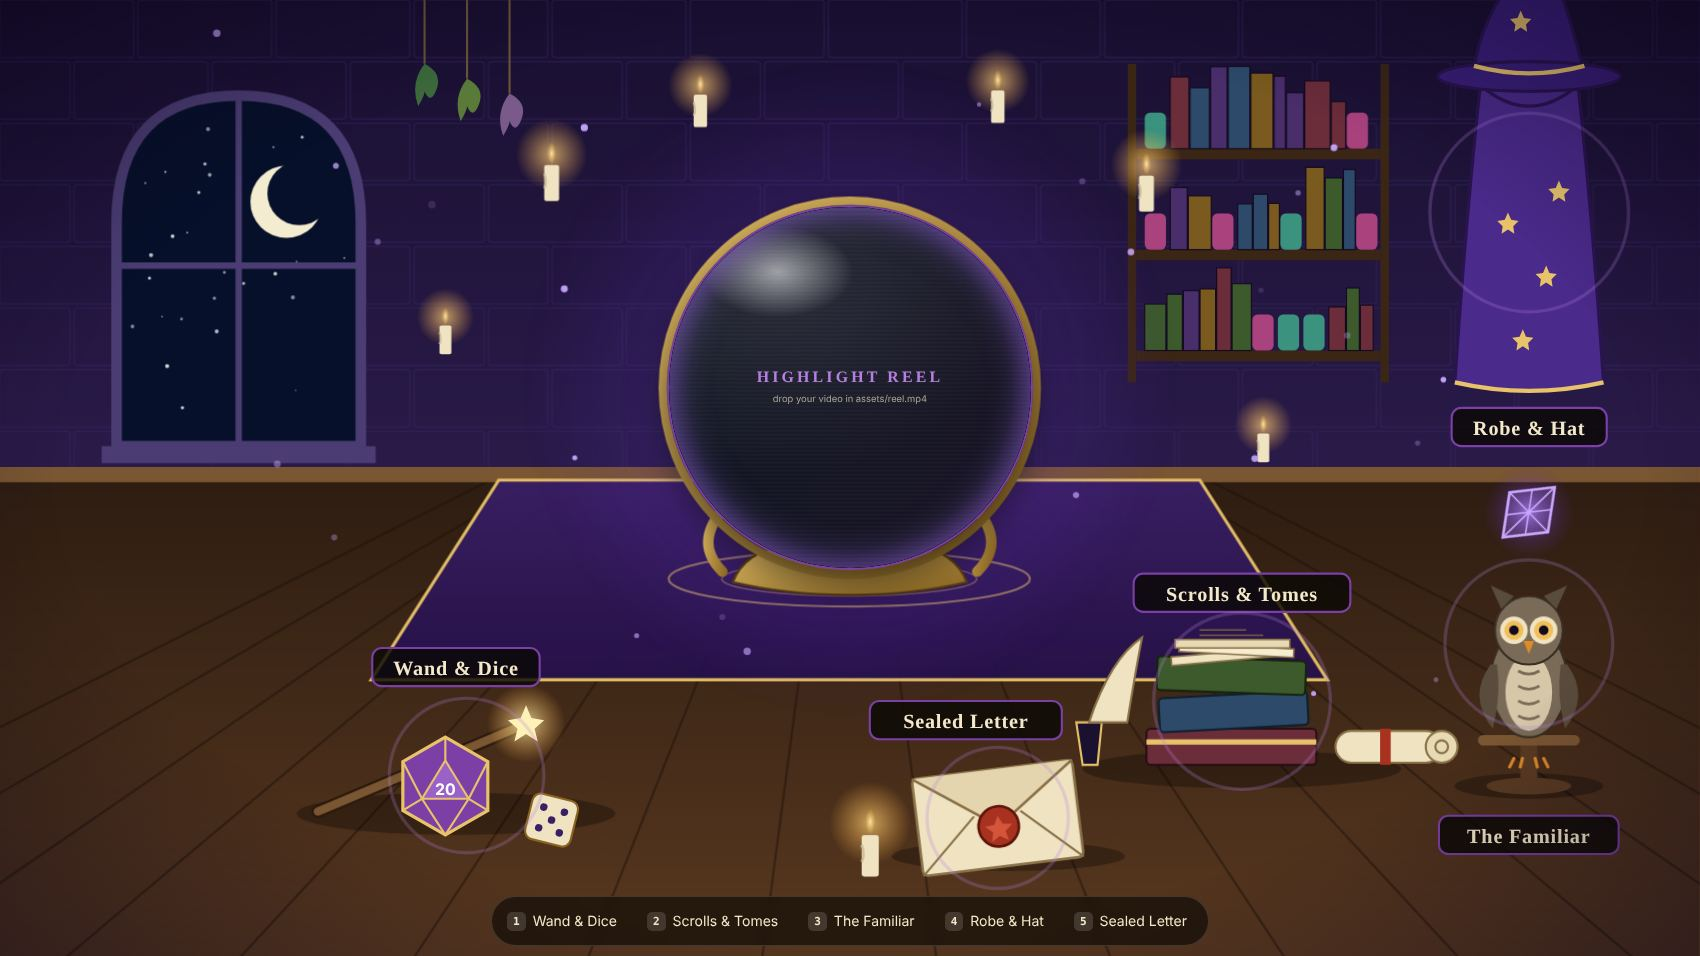
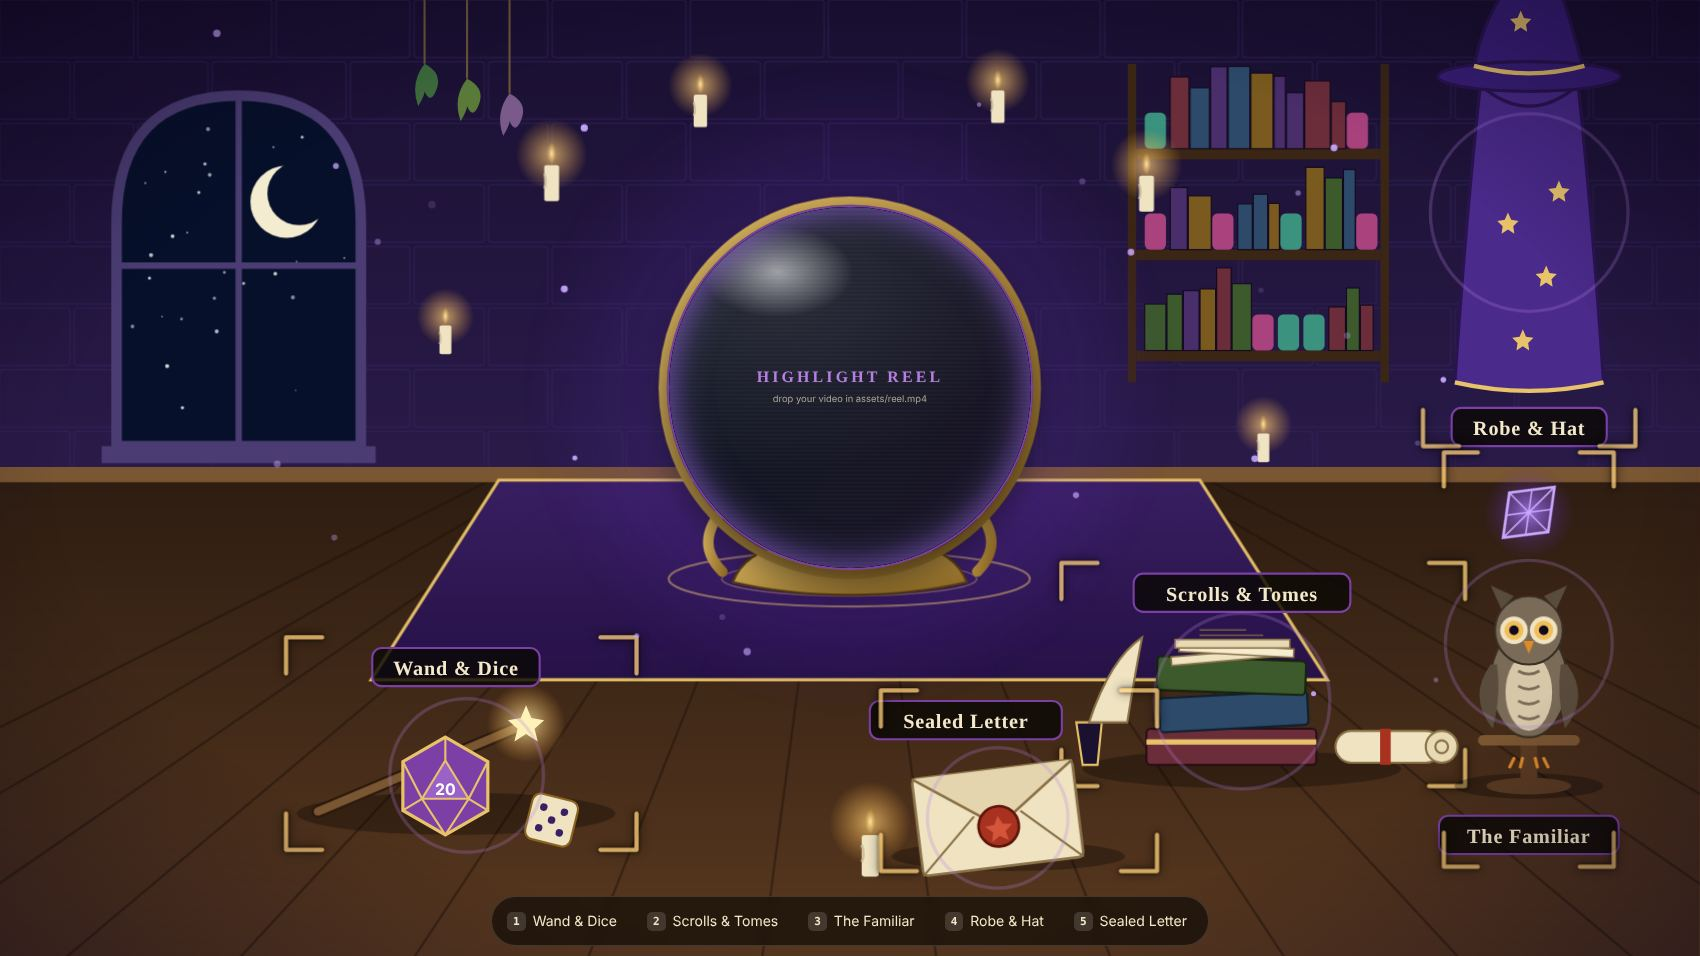
Add files via upload

diff --git a/concepts/scenes/workshop.js b/concepts/scenes/workshop.js
@@ -1,0 +1,96 @@
+/* Concept E - The Workshop (hand-drawn layered art).
+   Layers: art2/plate.jpg (empty room) + one transparent cut-out per object (raven, construct, books, kit, disc).
+   All art coordinates below are in source-image pixels (1024 x 572); K converts them to scene units.
+   To swap art: replace the PNGs in concepts/art2/ (same canvas position) and adjust the numbers here. */
+PF.init({
+  theme:'workshop',
+  reel:{x:575,y:295,w:448,h:283,shape:'rect'},
+  icons:{games:'art2/icon-games.png',docs:'art2/icon-docs.png',art:'art2/icon-art.png',about:'art2/icon-about.png',contact:'art2/icon-contact.png'},
+  flavor:{
+    games:{name:'Games',sub:'Shipped titles, student games and jams'},
+    docs:{name:'Documents',sub:'Fan GDDs and systems design logs'},
+    art:{name:'3D Art',sub:'Models you can rotate'},
+    about:{name:'About',sub:'Character sheet, experience, education'},
+    contact:{name:'Contact',sub:'Email, CV and message form'}
+  },
+  draw:function(svg,P){
+    var el=P.el,K=900/572,OX=(1600-1024*K)/2,T='translate('+OX+',0) scale('+K+')';
+    var CUT={raven:{x:82,y:123,w:198,h:132},construct:{x:774,y:50,w:203,h:222},books:{x:47,y:335,w:237,h:195},about:{x:334,y:359,w:376,h:192},disc:{x:705,y:280,w:254,h:257}};
+    P.defs(
+      '<radialGradient id="shd"><stop offset="0" stop-color="#050302" stop-opacity=".6"/><stop offset=".6" stop-color="#050302" stop-opacity=".25"/><stop offset="1" stop-color="#050302" stop-opacity="0"/></radialGradient>'+
+      '<radialGradient id="cdl"><stop offset="0" stop-color="#ffcf70" stop-opacity=".5"/><stop offset=".5" stop-color="#ff9a3c" stop-opacity=".16"/><stop offset="1" stop-color="#ff9a3c" stop-opacity="0"/></radialGradient>'+
+      '<radialGradient id="vig" cx=".5" cy=".5" r=".78"><stop offset=".62" stop-color="#0a0604" stop-opacity="0"/><stop offset="1" stop-color="#0a0604" stop-opacity=".5"/></radialGradient>'+
+      '<clipPath id="glass"><path d="M103 203 L103 130 C103 92 130 66 162 66 C194 66 222 92 222 130 L222 203Z"/></clipPath>'
+    );
+    function grp(parent,attrs){return el('g',attrs||{},parent)}
+    function img(parent,name,box){var i=el('image',{x:box.x,y:box.y,width:box.w,height:box.h,'pointer-events':'none'},parent);i.setAttribute('href','art2/'+name+'.png');return i}
+
+    /* 1 - empty room */
+    var bg=el('image',{x:OX,y:0,width:1024*K,height:900,preserveAspectRatio:'none'},svg);
+    bg.setAttribute('href','art2/plate.jpg');
+
+    /* 2 - soft contact shadows + candle light (under the objects) */
+    var world=grp(svg,{transform:T,'pointer-events':'none'});
+    [[165,520,128,14],[520,538,190,13],[832,530,108,12],[882,262,72,7],[170,250,70,6]].forEach(function(s){
+      el('ellipse',{cx:s[0],cy:s[1],rx:s[2],ry:s[3],fill:'url(#shd)'},world)});
+    el('circle',{class:'pulse',cx:968,cy:492,r:96,fill:'url(#cdl)'},world);
+
+    /* 3 - the window: drifting clouds and a few stars, clipped to the glass */
+    var sky=grp(world,{'clip-path':'url(#glass)'});
+    var cl=grp(sky,{class:'drift'});
+    [[130,92,36,7],[188,84,30,5.5],[150,108,24,4.5]].forEach(function(c){el('ellipse',{cx:c[0],cy:c[1],rx:c[2],ry:c[3],fill:'#b9cde2',opacity:.38},cl)});
+    [[125,76],[158,72],[190,80],[142,86],[207,92]].forEach(function(s,i){
+      var t=el('circle',{class:'twinkle',cx:s[0],cy:s[1],r:1.1,fill:'#fff3d0'},sky);t.style.animationDelay=(-i*.7)+'s'});
+
+    /* 4 - cut-out objects as clickable layers */
+    function tag(parent,text,cx,cy,stringTop){
+      var w=text.length*8.4+24,g=grp(parent,{class:'wtag'});
+      el('path',{d:'M'+(cx-13)+' '+(cy-14)+' L'+cx+' '+stringTop+' L'+(cx+13)+' '+(cy-14)},g);
+      el('circle',{cx:cx,cy:stringTop,r:2.2},g);
+      el('rect',{x:cx-w/2,y:cy-14,width:w,height:28,rx:3},g);
+      var t=el('text',{x:cx,y:cy+1},g);t.textContent=text;return g}
+    function object(key,name,fx,hit,anim,label){
+      var g=el('g',{class:'cut'},svg),w=grp(g,{transform:T}),lift=grp(w,{class:'lift'}),idle=grp(lift,anim?{class:anim}:{});
+      var im=img(idle,name,CUT[name]);
+      var tg=grp(w,{});tag(tg,label[0],label[1],label[2],label[3]);
+      /* hit box + brackets are in scene units */
+      var b=[OX+hit[0]*K,hit[1]*K,(hit[2]-hit[0])*K,(hit[3]-hit[1])*K];
+      P.hot(key,g,{box:b,frame:b});
+      return {g:g,idle:idle,im:im};
+    }
+    object('contact','raven',0,[62,32,266,314],'idle-sway',['Contact',163,292,262]);
+    object('art','construct',0,[772,46,990,274],'idle-breathe',['3D Art',962,292,266]);
+    object('docs','books',0,[38,330,292,566],null,['Documents',173,545,525]);
+    object('about','about',0,[338,392,698,568],null,['About',519,550,534]);
+    var disc=object('games','disc',0,[702,282,962,566],null,['Games',833,549,528]);
+    /* round brackets for the round object: four arcs instead of square corners */
+    (function(){
+      var old=disc.g.querySelector('.hbr');if(old)old.remove();
+      var br=el('g',{class:'hbr','pointer-events':'none'},disc.g);br.style.setProperty('--dl','1.9s');
+      var cx=OX+832*K,cy=408*K,r=136*K;
+      [45,135,225,315].forEach(function(a){
+        var p=function(d){var t=(a+d)*Math.PI/180;return (cx+r*Math.cos(t)).toFixed(1)+' '+(cy+r*Math.sin(t)).toFixed(1)};
+        el('path',{d:'M'+p(-17)+' A'+r.toFixed(1)+' '+r.toFixed(1)+' 0 0 1 '+p(17)},br)});
+    })();
+
+    /* the disc turns slowly; faster while it is the focused object */
+    (function(){
+      var c=CUT.disc,cx=c.x+c.w/2,cy=c.y+c.h/2,a=0,sp=3,last=performance.now(),still=matchMedia('(prefers-reduced-motion: reduce)').matches;
+      if(still)return;
+      (function tick(t){
+        var dt=Math.min(.05,(t-last)/1000);last=t;
+        var tgt=disc.g.classList.contains('on')||disc.g.matches(':hover')?46:3;
+        sp+=(tgt-sp)*Math.min(1,dt*4);a=(a+sp*dt)%360;
+        disc.idle.setAttribute('transform','rotate('+a.toFixed(2)+' '+cx+' '+cy+')');
+        requestAnimationFrame(tick)})(last);
+    })();
+
+    /* 5 - candle flame (the candle is part of the empty room, so the flame sits on top) */
+    var fl=grp(svg,{transform:T,'pointer-events':'none'}),f1=grp(fl,{transform:'translate(968,486)'}),f2=grp(f1,{class:'wflame'});
+    el('path',{d:'M0 -27 C8 -15 10 -6 0 3 C-10 -6 -8 -15 0 -27Z',fill:'#ffc04a'},f2);
+    el('path',{d:'M0 -15 C4 -10 5 -5 0 0 C-5 -5 -4 -10 0 -15Z',fill:'#fff1bd'},f2);
+
+    P.motes(grp(svg,{'pointer-events':'none'}),16,{x0:80,x1:1520,y0:180,y1:820,color:'#ffe3a8',r:1.1,rv:1.2,dy:46,dx:22});
+    el('rect',{x:0,y:0,width:1600,height:900,fill:'url(#vig)','pointer-events':'none'},svg);
+  }
+});

diff --git a/concepts/core/core.js b/concepts/core/core.js
@@ -65,17 +65,25 @@
         g.setAttribute('class',(g.getAttribute('class')||'')+' hot');
         g.setAttribute('tabindex','0');g.setAttribute('role','button');g.setAttribute('aria-label',f.name+' - '+f.sub);
         if(o.box)svgEl('rect',{x:o.box[0],y:o.box[1],width:o.box[2],height:o.box[3],fill:'transparent'},g);
+        if(o.box){
+          var fr=o.frame||o.box,bx=fr[0],by=fr[1],bw=fr[2],bh=fr[3],L=Math.max(14,Math.min(34,Math.min(bw,bh)*.2)),br=svgEl('g',{class:'hbr','pointer-events':'none'},g);
+          br.style.setProperty('--dl',(1.2+Object.keys(hots).length*.35).toFixed(2)+'s');
+          [[bx,by,1,1],[bx+bw,by,-1,1],[bx,by+bh,1,-1],[bx+bw,by+bh,-1,-1]].forEach(function(c){
+            svgEl('path',{d:'M'+c[0]+' '+(c[1]+c[3]*L)+' V'+c[1]+' H'+(c[0]+c[2]*L)},br)});
+        }
         if(o.ping)svgEl('circle',{class:'ping',cx:o.ping[0],cy:o.ping[1],r:o.ping[2]||60},g);
         hots[key]=g;
         g.addEventListener('click',function(e){e.stopPropagation();go(key)});
         g.addEventListener('keydown',function(e){if(e.key==='Enter'||e.key===' '){e.preventDefault();go(key)}});
-        g.addEventListener('pointerenter',function(e){showTip(key,e.clientX,e.clientY)});
+        g.addEventListener('pointerenter',function(e){spotOn(key);showTip(key,e.clientX,e.clientY)});
         g.addEventListener('pointermove',function(e){moveTip(e.clientX,e.clientY)});
-        g.addEventListener('pointerleave',hideTip);
-        g.addEventListener('focus',function(){var r=g.getBoundingClientRect();showTip(key,r.left+r.width/2,r.top)});
-        g.addEventListener('blur',hideTip);
+        g.addEventListener('pointerleave',function(){spotOff();hideTip()});
+        g.addEventListener('focus',function(){spotOn(key);var r=g.getBoundingClientRect();showTip(key,r.left+r.width/2,r.top)});
+        g.addEventListener('blur',function(){spotOff();hideTip()});
         return g}
     };
+    function spotOn(k){stage.classList.add('spot');Object.keys(hots).forEach(function(j){hots[j].classList.toggle('on',j===k)})}
+    function spotOff(){stage.classList.remove('spot');Object.keys(hots).forEach(function(j){hots[j].classList.remove('on')})}
     function showTip(key,x,y){var f=F[key];tip.innerHTML='<b>'+esc(f.name)+'</b>'+esc(f.sub);tip.classList.add('on');moveTip(x,y)}
     function moveTip(x,y){tip.style.left=x+'px';tip.style.top=y+'px'}
     function hideTip(){tip.classList.remove('on')}
@@ -83,7 +91,7 @@
     cfg.draw(svg,P);
 
     /* highlight reel */
-    var R=cfg.reel,reel=h('div','pf-reel'+(R.shape==='circle'?' circle':R.shape==='oval'?' oval':''));
+    var R=cfg.reel,reel=h('div','pf-reel'+(R.shape==='circle'?' circle':R.shape==='oval'?' oval':R.shape==='rect'?' rect':''));
     reel.style.left=(R.x/16)+'%';reel.style.top=(R.y/9)+'%';reel.style.width=(R.w/16)+'%';reel.style.height=(R.h/9)+'%';
     if(R.tf){reel.style.transform=R.tf}
     if(R.r){reel.style.borderRadius=R.r}
@@ -106,13 +114,13 @@
     KEYS.forEach(function(k,i){
       var b=h('button','','<kbd>'+(i+1)+'</kbd>'+(cfg.icons&&cfg.icons[k]?'<img class="pf-mi" src="'+cfg.icons[k]+'" alt="">':'')+esc(F[k].name));b.type='button';
       b.onclick=function(){go(k)};
-      b.addEventListener('mouseenter',function(){if(hots[k])hots[k].classList.add('peek')});
-      b.addEventListener('mouseleave',function(){if(hots[k])hots[k].classList.remove('peek')});
-      b.addEventListener('focus',function(){if(hots[k])hots[k].classList.add('peek')});
-      b.addEventListener('blur',function(){if(hots[k])hots[k].classList.remove('peek')});
+      b.addEventListener('mouseenter',function(){spotOn(k)});
+      b.addEventListener('mouseleave',spotOff);
+      b.addEventListener('focus',function(){spotOn(k)});
+      b.addEventListener('blur',spotOff);
       menu.appendChild(b)});
     stage.appendChild(menu);
-    var hint=h('div','pf-hint','Click anything that glows &middot; or press 1-5');
+    var hint=h('div','pf-hint','Click any framed object &middot; or press 1-5');
     stage.appendChild(hint);
     setTimeout(function(){hint.classList.add('gone')},9000);
 

diff --git a/concepts/core/core.css b/concepts/core/core.css
@@ -237,3 +237,45 @@ body[data-theme=crossroads] .pf-btn.ghost,body[data-theme=dungeon] .pf-btn.ghost
   .pf-reel.oval{border-radius:10px!important}
   .pf-reel.oval:after{border-radius:10px}
 }
+
+/* ---------- affordance: brackets + spotlight ---------- */
+.hbr path{fill:none;stroke:#ffd27a;stroke-width:4;stroke-linecap:round;stroke-linejoin:round;opacity:.75;transition:opacity .2s,stroke-width .2s;filter:drop-shadow(0 0 2px rgba(0,0,0,.95)) drop-shadow(0 0 5px rgba(0,0,0,.6));animation:brk 3.2s ease-in-out infinite var(--dl,0s)}
+@keyframes brk{0%,100%{opacity:.55}50%{opacity:1}}
+.hot:hover .hbr path,.hot:focus-visible .hbr path,.hot.on .hbr path,.hot.peek .hbr path{opacity:1;stroke-width:4.5;animation:none}
+.hot.on{filter:brightness(1.22) drop-shadow(0 0 14px var(--acc-hi))}
+.hot.flat.on{filter:none}
+.hot.on .hot-art{transform:scale(1.045)}
+.hot.on .hglow,.hot.on .ptag{opacity:1}
+.pf-stage.spot .hot:not(.on){filter:brightness(.55) saturate(.7)}
+.pf-stage.spot .hot.flat:not(.on){filter:none}
+.pf-stage.spot .hot:not(.on) .hbr path{opacity:.35;animation:none}
+@media (max-width:760px){.hbr{display:none}}
+
+/* ---------- Workshop concept (hand-drawn layered art) ---------- */
+body[data-theme=workshop]{--edge:#150e09;--pbg:#ead9b0;--ink:#2e2015;--ink2:#6a5239;--acc:#2f7a62;--acc-hi:#f0c060;--line:rgba(80,55,30,.42);--card:rgba(255,255,255,.4);--head:Georgia,"Times New Roman",serif;--pshadow:rgba(10,5,0,.72);--btn-ink:#fff;--topbar:rgba(21,14,9,.78)}
+.pf-reel.rect{box-shadow:0 0 0 1px #0b0d12}
+.pf-reel.rect:after{content:"";position:absolute;inset:0;pointer-events:none;box-shadow:inset 0 0 22px 7px rgba(6,8,12,.72)}
+.pf-reel.rect .pf-snd{z-index:3}
+.hot.cut .lift{transition:transform .28s cubic-bezier(.2,.8,.3,1)}
+.hot.cut:hover .lift,.hot.cut:focus-visible .lift,.hot.cut.on .lift{transform:translateY(-4px)}
+.hot.cut:hover,.hot.cut:focus-visible,.hot.cut.on,.hot.cut.peek{filter:brightness(1.1) saturate(1.08) drop-shadow(2px 0 0 #ffd27a) drop-shadow(-2px 0 0 #ffd27a) drop-shadow(0 2px 0 #ffd27a) drop-shadow(0 -2px 0 #ffd27a) drop-shadow(0 0 9px rgba(255,210,122,.6))}
+.pf-stage.spot .hot.cut:not(.on){filter:brightness(.8) saturate(.82)}
+.hot.cut .wtag rect{fill:#e6d4a2;stroke:#2a1b12;stroke-width:1.6;transition:fill .2s}
+.hot.cut .wtag path{fill:none;stroke:#2a1b12;stroke-width:1.3;stroke-linecap:round}
+.hot.cut .wtag circle{fill:#2a1b12}
+.hot.cut .wtag text{fill:#2a1b12;font:700 15px Kalam,"Segoe Print","Bradley Hand","Comic Sans MS",cursive;text-anchor:middle;dominant-baseline:central;pointer-events:none}
+.hot.cut:hover .wtag rect,.hot.cut:focus-visible .wtag rect,.hot.cut.on .wtag rect,.hot.cut.peek .wtag rect{fill:#ffd27a}
+.idle-sway{animation:sway 6s ease-in-out infinite alternate;transform-box:fill-box;transform-origin:50% 100%}
+@keyframes sway{from{transform:rotate(-.9deg)}to{transform:rotate(.9deg)}}
+.idle-breathe{animation:breathe2 5s ease-in-out infinite;transform-box:fill-box;transform-origin:50% 100%}
+@keyframes breathe2{50%{transform:scale(1.006,1.016)}}
+.drift{animation:drift 70s linear infinite alternate}
+@keyframes drift{from{transform:translateX(-26px)}to{transform:translateX(30px)}}
+.wflame{animation:wflame 1.6s ease-in-out infinite alternate;transform-box:fill-box;transform-origin:50% 100%}
+@keyframes wflame{0%{transform:scale(1,1) skewX(0)}35%{transform:scale(.94,1.08) skewX(2deg)}70%{transform:scale(1.04,.94) skewX(-2deg)}100%{transform:scale(.97,1.05) skewX(1deg)}}
+@media (prefers-reduced-motion:reduce){.idle-sway,.idle-breathe,.drift,.wflame,.twinkle,.mote{animation:none}}
+@media (min-width:761px){
+  body[data-theme=workshop] .pf-menu{bottom:auto;top:12px}
+  body[data-theme=workshop] .pf-hint{top:64px}
+}
+@media (max-width:760px){.wtag{display:none}}

diff --git a/concepts/index.html b/concepts/index.html
@@ -4,7 +4,7 @@
 <meta charset="utf-8">
 <meta name="viewport" content="width=device-width, initial-scale=1">
 <title>Landing concepts - Yoav Stadler</title>
-<meta name="description" content="Four RPG landing page concepts for Yoav Stadler's portfolio.">
+<meta name="description" content="Six RPG landing page concepts for Yoav Stadler's portfolio.">
 <style>
 :root{--bg:#08130f;--panel:#11231b;--ink:#efe6cf;--ink2:#b9ad8c;--amber:#C8922A;--amber-hi:#f0bf5a;--line:rgba(200,146,42,.35)}
 *{box-sizing:border-box}
@@ -35,11 +35,18 @@ footer{text-align:center;color:var(--ink2);padding:10px 20px 40px}
 <body>
 <header>
   <h1>Landing concepts</h1>
-  <p class="sub">Five ways to open the portfolio. All of them share the same content, the same looping highlight-reel slot in the middle, and sections that open in place. Click through each one and open a few objects.</p>
+  <p class="sub">Six ways to open the portfolio. All of them share the same content, the same looping highlight-reel slot in the middle, and sections that open in place. Click through each one and open a few objects.</p>
 </header>
 <div class="wrap">
   <div class="grid">
     <article class="card" style="border-color:var(--amber-hi)">
+      <a class="th" href="workshop.html"><img src="thumbs/workshop.jpg" alt="The Workshop concept"></a>
+      <div class="b"><small>Concept E - hand-drawn, newest</small><h2>The Workshop</h2>
+        <p>A wooden wizard's workshop drawn by hand. The reel plays inside a runestone frame. Disc = games, books = documents, construct = 3D art, hat and satchel = about, raven in the window = contact.</p>
+        <ul><li>Each object is its own layer: gold outline, lift and label on hover</li><li>Animated: turning disc, flickering candle, drifting clouds, swaying raven</li><li>Art is easy to swap: replace the PNGs in <code>art2/</code></li></ul>
+        <a class="btn" href="workshop.html">Open</a></div>
+    </article>
+    <article class="card">
       <a class="th" href="wizard-art.html"><img src="thumbs/wizard-art.jpg" alt="The Wizard's Table with your painted art"></a>
       <div class="b"><small>Concept B - with your painted art</small><h2>The Wizard's Table (painted)</h2>
         <p>The wizard's table built from the scene and object art you generated. The reel plays inside the oval mirror frame, the objects glow on hover, and the cut-out art shows up as icons in the menu and panels.</p>

diff --git a/concepts/scenes/wizard-art.js b/concepts/scenes/wizard-art.js
@@ -34,18 +34,18 @@ PF.init({
     glow(1612,205,'pulse',{r:95,fill:'url(#flameg)',opacity:.7});
 
     /* hotspot helper: ellipse glow + hit box + hover tag + sparkle */
-    function spot(key,cx,cy,rx,ry,tagAt,spk){
+    function spot(key,cx,cy,rx,ry,frame,spk){
       var g=el('g',{class:'flat'},svg);
       el('ellipse',{class:'hglow',cx:cx*K,cy:cy*K,rx:rx*K,ry:ry*K,fill:'url(#hg)'},g);
       P.sparkle(g,spk[0]*K,spk[1]*K,15);
-      P.hot(key,g,{box:[(cx-rx)*K,(cy-ry)*K,rx*2*K,ry*2*K]});
+      P.hot(key,g,{box:[(cx-rx)*K,(cy-ry)*K,rx*2*K,ry*2*K],frame:[frame[0]*K,frame[1]*K,(frame[2]-frame[0])*K,(frame[3]-frame[1])*K]});
       return g;
     }
-    spot('games',335,725,325,125,[335,590],[505,765]);
-    spot('docs',1405,650,215,108,[1405,535],[1392,592]);
-    spot('art',290,345,125,190,[290,135],[305,250]);
-    spot('about',1330,290,175,275,[1330,585],[1330,255]);
-    spot('contact',1310,792,150,58,[1310,712],[1395,785]);
+    spot('games',335,725,325,125,[30,580,645,865],[505,765]);
+    spot('docs',1405,650,215,108,[1190,540,1625,770],[1392,592]);
+    spot('art',290,345,125,190,[185,190,415,530],[305,250]);
+    spot('about',1330,290,175,275,[1165,70,1490,565],[1330,255]);
+    spot('contact',1310,792,150,58,[1170,735,1455,855],[1395,785]);
 
     P.motes(svg,22,{x0:150,x1:1450,y0:150,y1:850,color:'#ffcf70',dy:60,dx:20,r:1.5,rv:1.4});
     el('rect',{x:0,y:0,width:1600,height:900,fill:'url(#vig)','pointer-events':'none'},svg);

diff --git a/concepts/workshop.html b/concepts/workshop.html
@@ -1,0 +1,19 @@
+<!doctype html>
+<html lang="en">
+<head>
+<meta charset="utf-8">
+<meta name="viewport" content="width=device-width, initial-scale=1">
+<title>Concept E - The Workshop - Yoav Stadler</title>
+<meta name="description" content="Concept: a hand-drawn wizard's workshop where the highlight reel plays inside a runestone frame">
+<link rel="preconnect" href="https://fonts.googleapis.com">
+<link href="https://fonts.googleapis.com/css2?family=Kalam:wght@700&display=swap" rel="stylesheet">
+<link rel="stylesheet" href="core/core.css">
+</head>
+<body>
+<div id="pf"></div>
+<noscript><p style="padding:70px 20px;color:#eee">This landing page needs JavaScript. The classic site is at <a href="../index.html">index.html</a>.</p></noscript>
+<script src="core/data.js"></script>
+<script src="core/core.js"></script>
+<script src="scenes/workshop.js"></script>
+</body>
+</html>

diff --git a/README.md b/README.md
@@ -24,6 +24,12 @@ crossroads.html, wizard.html, dungeon.html, guild.html, plus a gallery at `conce
 - Each section has a deep link, for example `concepts/guild.html#games/clockout`.
 - To make one the real home page later, copy its html file to the repo root as `index.html` and fix the three relative paths (core/, scenes/, ../).
 
+### The Workshop (hand-drawn, layered)
+`concepts/workshop.html` + `concepts/scenes/workshop.js`. Layers live in `concepts/art2/`: `plate.jpg` (empty room) and one transparent PNG per object (`raven, construct, books, about, disc`) plus `icon-*.png` for the menu.
+Cut-outs sit at their original positions in the 1024 x 572 source image; the `CUT` table and hit boxes in `workshop.js` are in those pixels. The reel rectangle is the frame interior (`reel:{x,y,w,h}` in scene units, 1600 x 900).
+To replace an object: export it on a flat green background at the same position, key it out, save as PNG in `art2/` and update its entry in `CUT`.
+The tag font (Kalam) loads from Google Fonts in `workshop.html`; it falls back to a system handwriting font offline.
+
 ### Painted wizard concept
 `concepts/wizard-art.html` uses the generated art in `concepts/art/` (`wizard-scene.jpg` plus cut-outs `wand/books/owl/robe/letter.png`).
 Hotspot regions are listed in `concepts/scenes/wizard-art.js` in image pixels (1672 x 941); change them if you swap the scene image.
